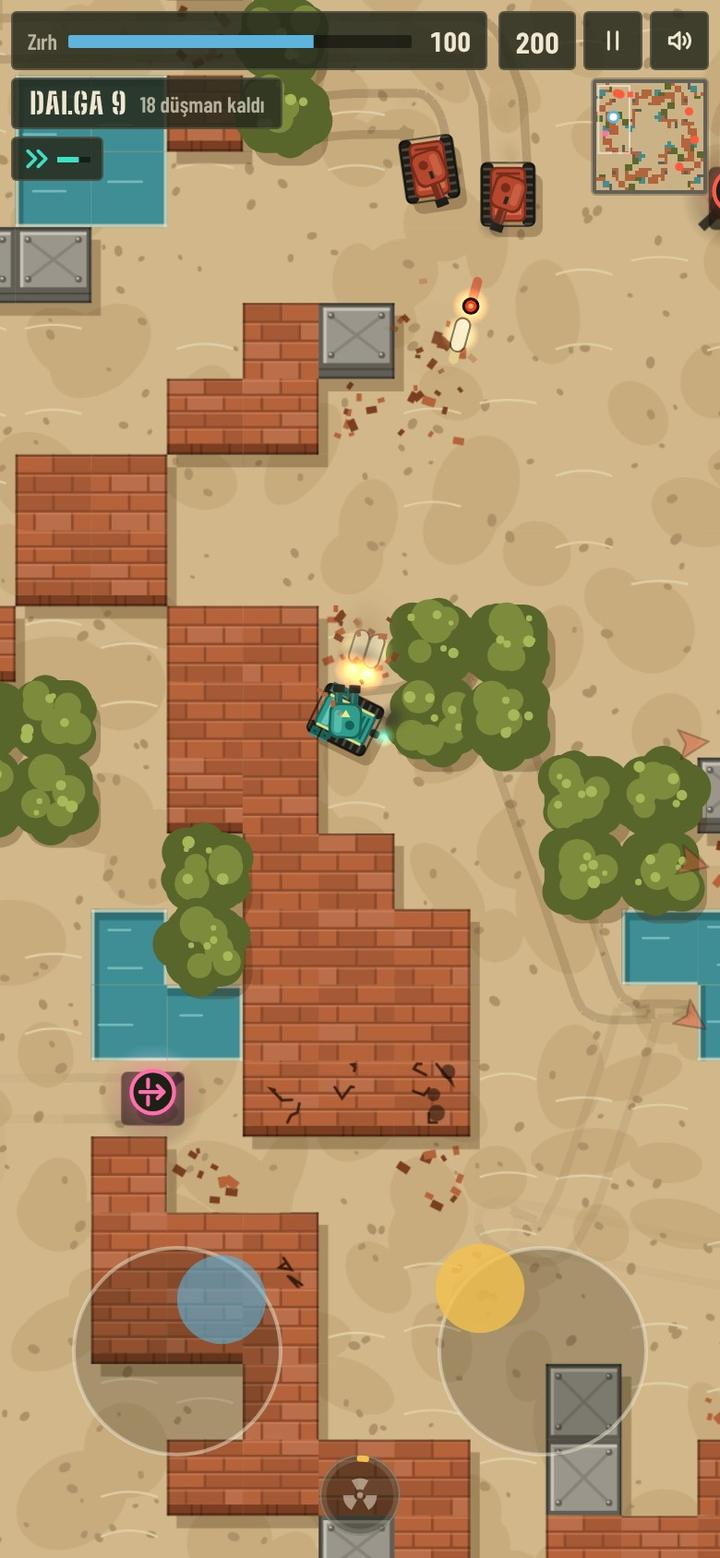
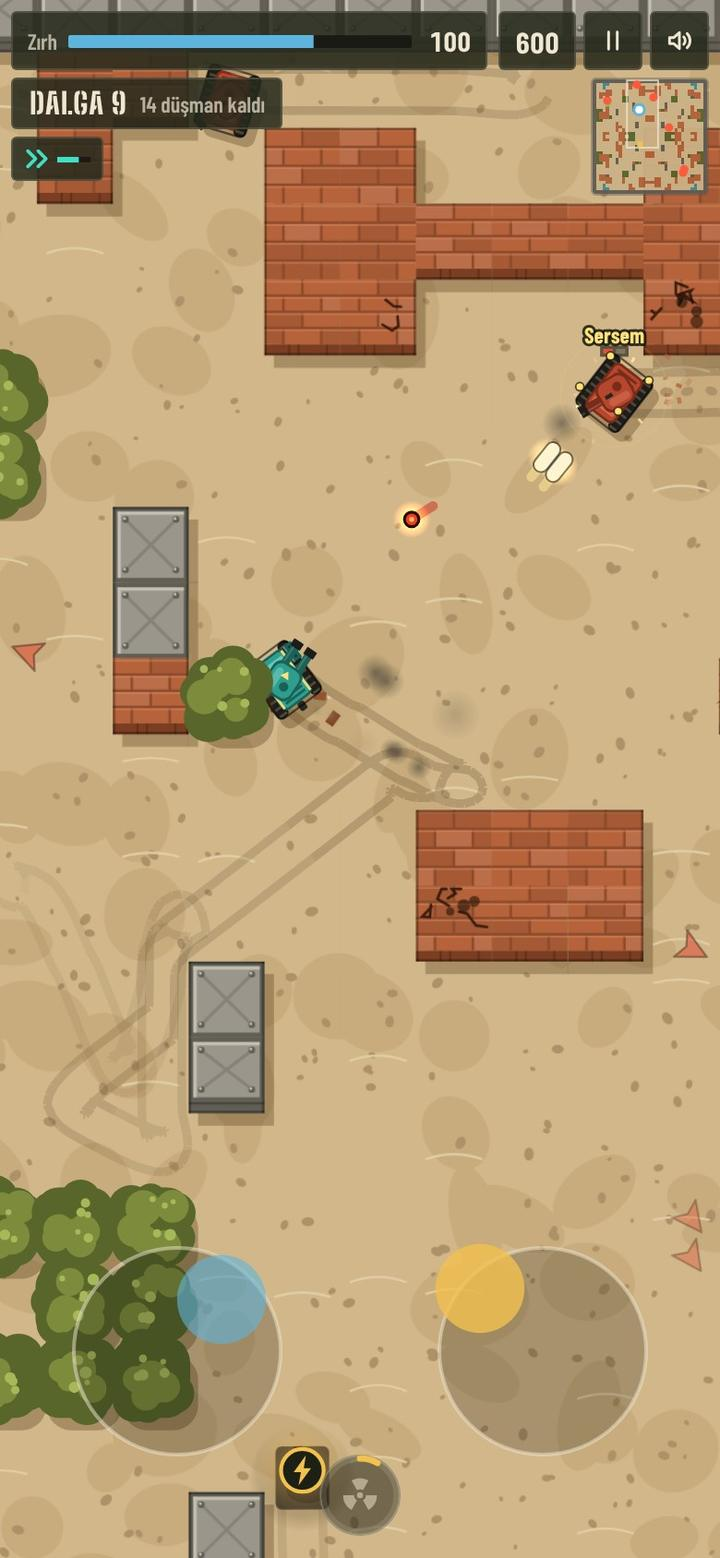
1.5.5 sürümü: güncel görseller
Demirkök sprite'ı kale hâlinde (planted, kökler) yeniden çizildi, telefon boss ekran görüntüsü ve oyun ekranları yeniden alındı (Demirkök 20. dalga, yeni atölye kartı görünür), boss görseli alt metni Demirkök'e düzeltildi.

Claude-Session: https://claude.ai/code/session_015tcK84sQLFTjJhWRExkYzZ

diff --git a/site/index.html b/site/index.html
@@ -282,7 +282,7 @@ footer a{text-underline-offset:3px}
   <div class="wrap">
     <h2>Boss savaşları</h2>
     <p class="lead">Boss dalgalarında oyun kendi etabına geçer: sahada yalnızca boss ve sen varsınız, arena boss'a göre tasarlanmıştır. Üstte büyük bir can çubuğu görünür. Boss saldırmadan önce uyarır; çelik bloklar seni korur. Yeterince vurursan boss'un paleti ve namlusu da kırılır. Serbest Mod'da tankını, kartlarını ve hedefini kendin seçip istediğin bossla ya da dalgayla oynayabilirsin.</p>
-    <div class="bossshot"><img src="/img/boss-phone.jpg" width="720" height="1558" alt="Sarı Fırtına boss savaşı: üstte büyük boss can çubuğu, sarı boss tankı ve mavi oyuncu tankı" loading="lazy"></div>
+    <div class="bossshot"><img src="/img/boss-phone.jpg" width="720" height="1558" alt="Demirkök boss savaşı: üstte büyük boss can çubuğu, kale gibi duran Demirkök tankı ve mavi oyuncu tankı" loading="lazy"></div>
     <p class="lead">Herkes aynı kurallarla oynar, rekorlar tek listede tutulur.</p>
   </div>
 </section>

diff --git a/tools/build_site.py b/tools/build_site.py
@@ -358,7 +358,7 @@ footer a{{text-underline-offset:3px}}
   <div class="wrap">
     <h2>Boss savaşları</h2>
     <p class="lead">Boss dalgalarında oyun kendi etabına geçer: sahada yalnızca boss ve sen varsınız, arena boss'a göre tasarlanmıştır. Üstte büyük bir can çubuğu görünür. Boss saldırmadan önce uyarır; çelik bloklar seni korur. Yeterince vurursan boss'un paleti ve namlusu da kırılır. Serbest Mod'da tankını, kartlarını ve hedefini kendin seçip istediğin bossla ya da dalgayla oynayabilirsin.</p>
-    <div class="bossshot"><img src="/img/boss-phone.jpg" width="720" height="1558" alt="Sarı Fırtına boss savaşı: üstte büyük boss can çubuğu, sarı boss tankı ve mavi oyuncu tankı" loading="lazy"></div>
+    <div class="bossshot"><img src="/img/boss-phone.jpg" width="720" height="1558" alt="Demirkök boss savaşı: üstte büyük boss can çubuğu, kale gibi duran Demirkök tankı ve mavi oyuncu tankı" loading="lazy"></div>
     <p class="lead">Herkes aynı kurallarla oynar, rekorlar tek listede tutulur.</p>
   </div>
 </section>

diff --git a/tools/assets.py b/tools/assets.py
@@ -24,7 +24,8 @@ SPRITE_HOOK = '''    sprite(type, px, up, tank) { // tank: a TANKS id, draws tha
 '''
 BOSS_HOOK = '''    bossSprite(w, px, span, key) { // the real boss drawing (drawBoss) of the boss at wave w (or of the sandbox-only boss key), alone and idle on a transparent canvas, nose up
       G.forceBoss = key || null; G.wave = w - 1; nextWave(); G.forceBoss = null; G.introSeen = true; endBossIntro(true);
-      const e = G.boss, keep = [e.x, e.y, e.angle, e.turret], cv = document.createElement('canvas'); cv.width = cv.height = px;
+      const e = G.boss; if (e.dk) e.dk.root = 1; // Demirkök: planted, anchors out (15c)
+      const keep = [e.x, e.y, e.angle, e.turret], cv = document.createElement('canvas'); cv.width = cv.height = px;
       const k = px / span, g = cv.getContext('2d'); g.setTransform(k, 0, 0, k, px / 2, px / 2 + 3 * k);
       e.x = e.y = 0; e.angle = -Math.PI / 2; e.turret = -Math.PI / 2; e.flash = 0; drawBoss(e, 1, g);
       [e.x, e.y, e.angle, e.turret] = keep; return cv.toDataURL('image/png');
